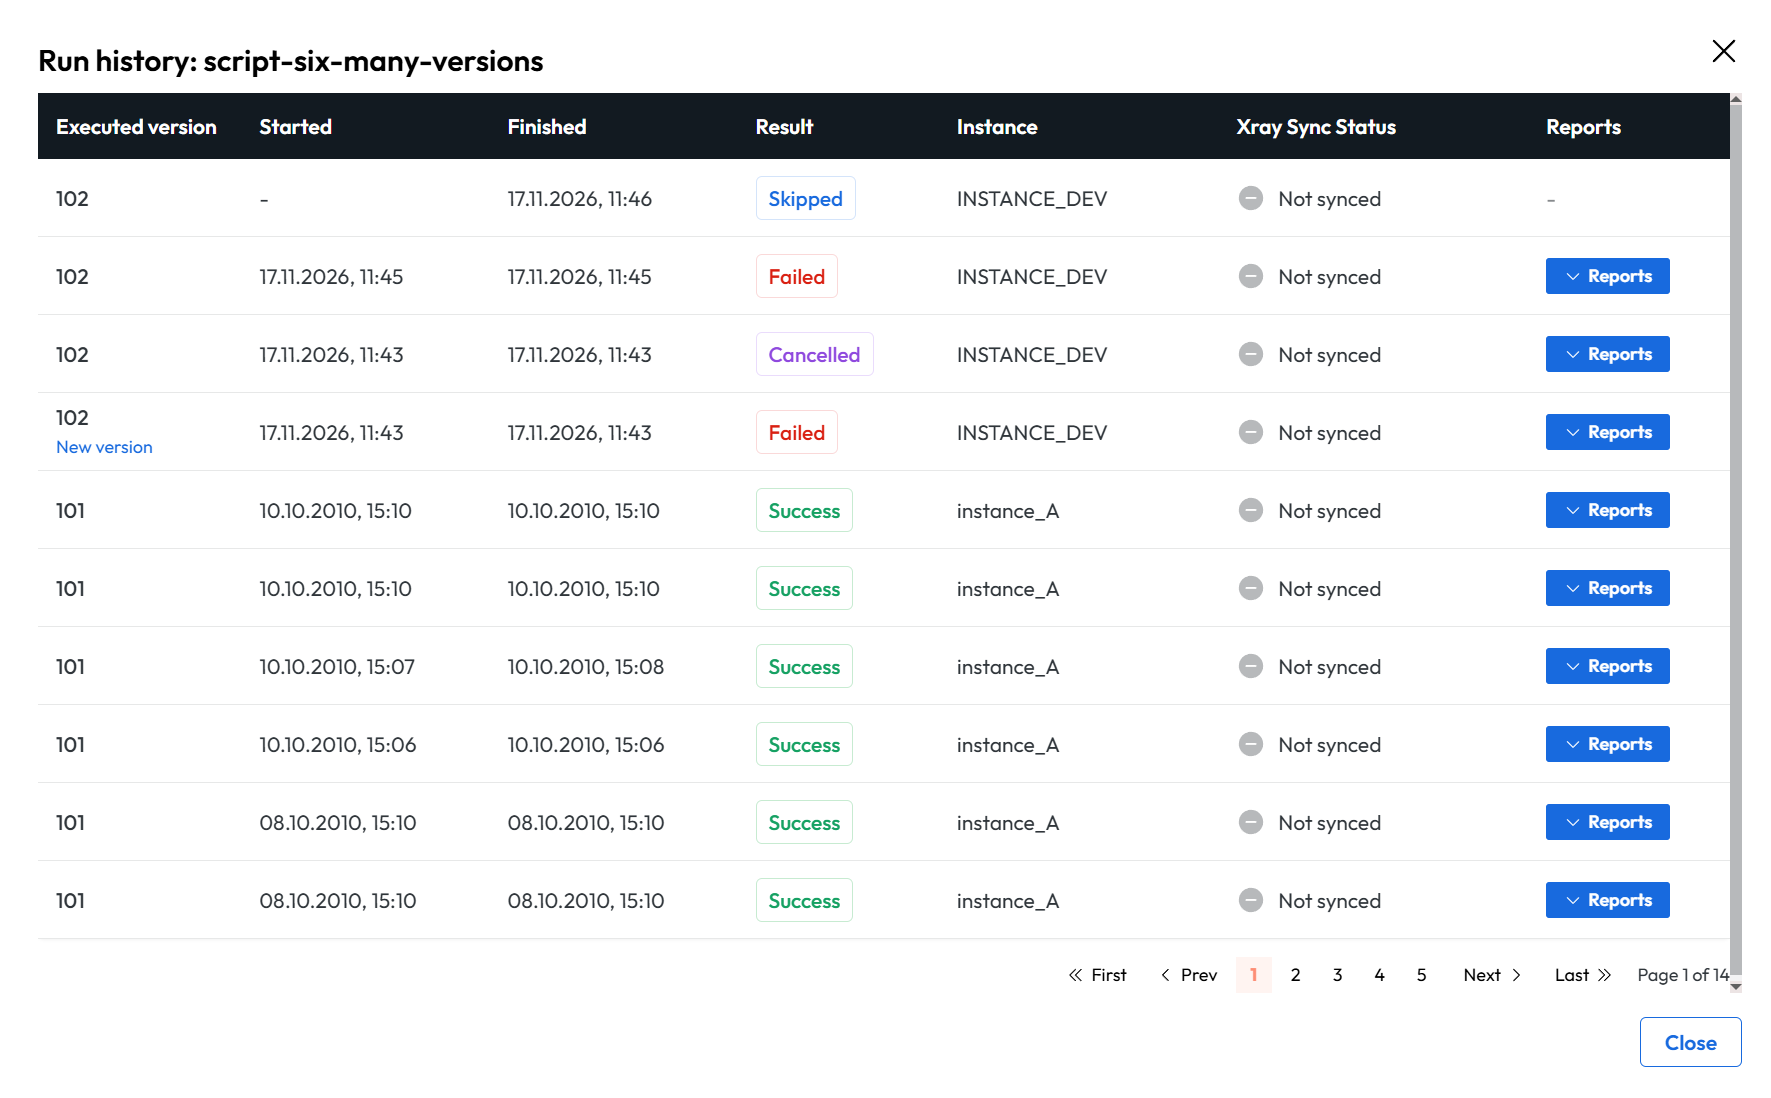
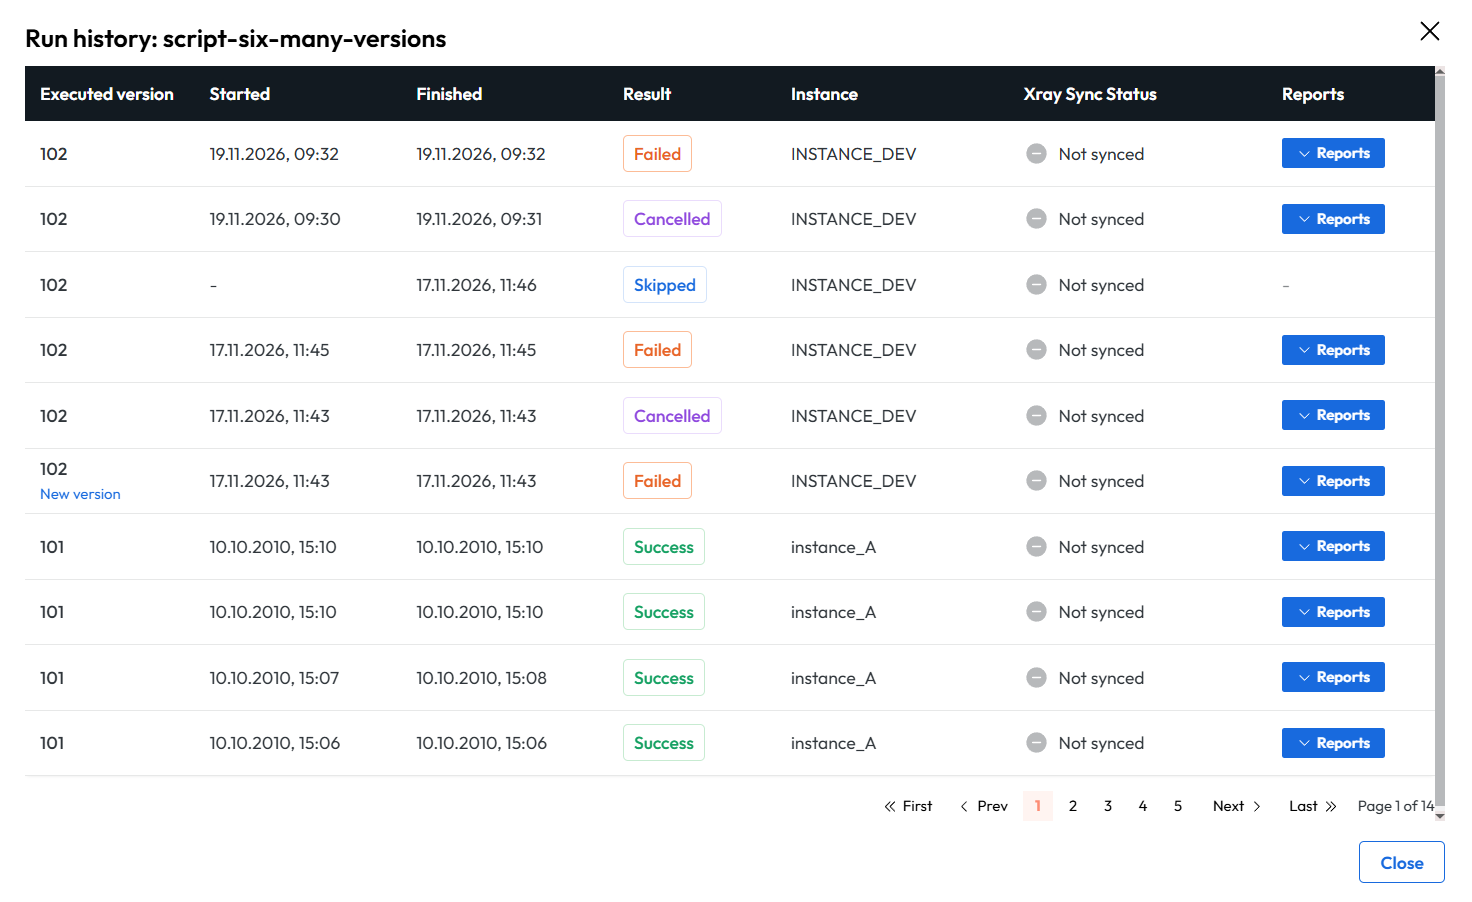
mentioned csv reports change, and color changes in release notes

diff --git a/docs/release_notes.md b/docs/release_notes.md
@@ -2,6 +2,10 @@
 
 ## Version 5.4.0
 
+#### Breaking Changes
+
+- Xray custom fields are no longer sent by default. After upgrading, configure them in Admin → Configuration or via `AST_CONTROL_PANEL_INTEGRATION_XRAY_CUSTOM_FIELDS`. [Read more](jira_xray.md#custom-fields)
+
 #### New Features
 
 - The execution report table is now sortable by clicking a column header. [Read more](test_sets.md#sorting-the-execution-report-table)
@@ -36,4 +40,7 @@
 - The status sent to Xray is now taken from the execution result.
 - Trial runs are stopped automatically when their logs are no longer being followed in the editor, for example after closing the browser tab.
 - The database user ID is no longer shown in the User Management table and edit dialog.
+- Execution result colors are now the same everywhere in the Control Panel: Failed is orange, Error is red.
+- The test case details panel now shows Error, Skipped and Cancelled runs with their own label and icon instead of *Warning*.
+- The Analytics CSV reports are now generated on the backend. The endpoints `GET /api/scripts/run-execution-report` and `GET /api/scripts/all-run-execution-report` now return CSV (`text/csv`) instead of JSON.
 - Backend and frontend dependency updates.

diff --git a/docs/test_case_repository.md b/docs/test_case_repository.md
@@ -111,8 +111,8 @@ Each square shows the result of the run with a color and an icon:
 | Result    | Color  | Icon           |
 |-----------|--------|----------------|
 | Success   | Green  | Check mark     |
-| Failed    | Red    | Cross          |
-| Error     | Orange | Warning sign   |
+| Failed    | Orange | Cross          |
+| Error     | Red    | Warning sign   |
 | Skipped   | Blue   | Skip forward   |
 | Cancelled | Purple | Prohibited     |
 | Unknown   | Grey   | Dash           |
